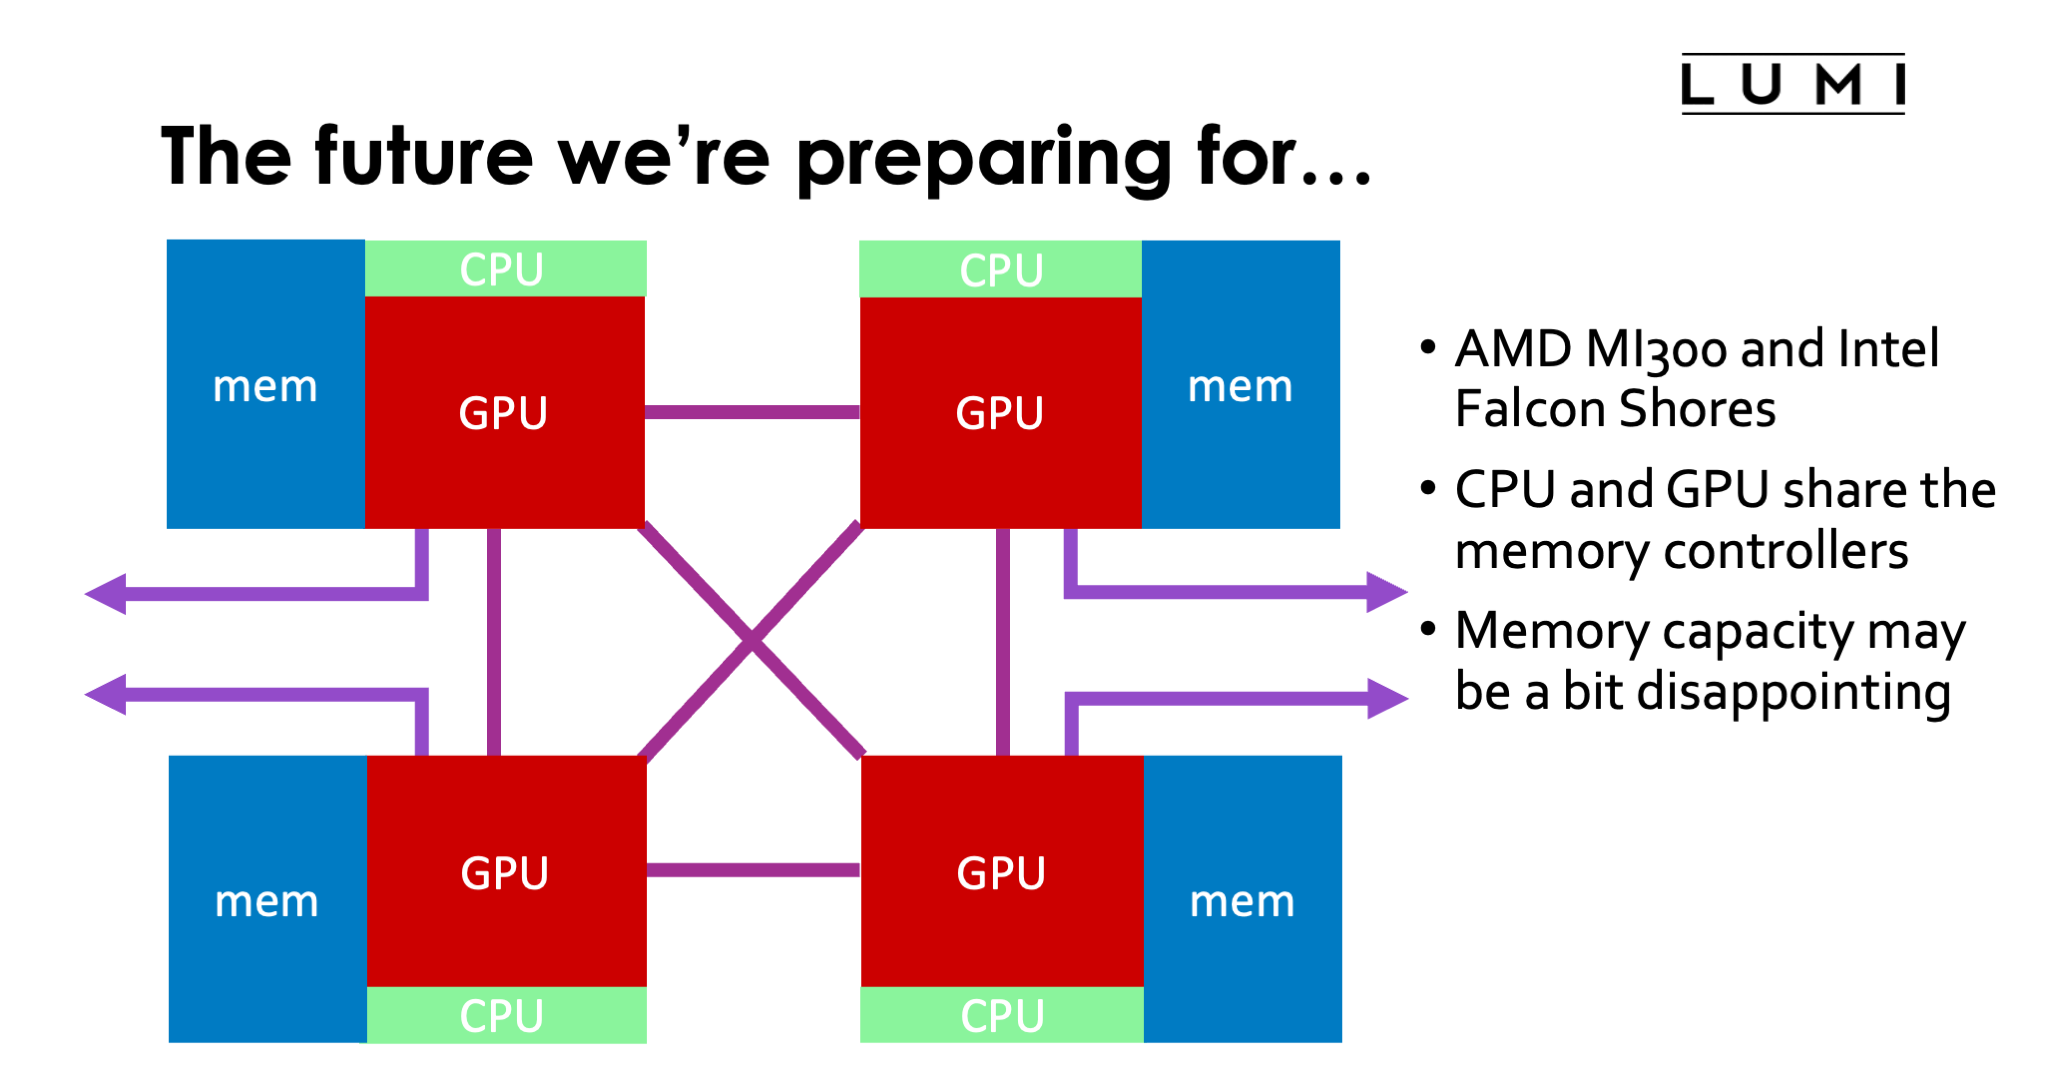
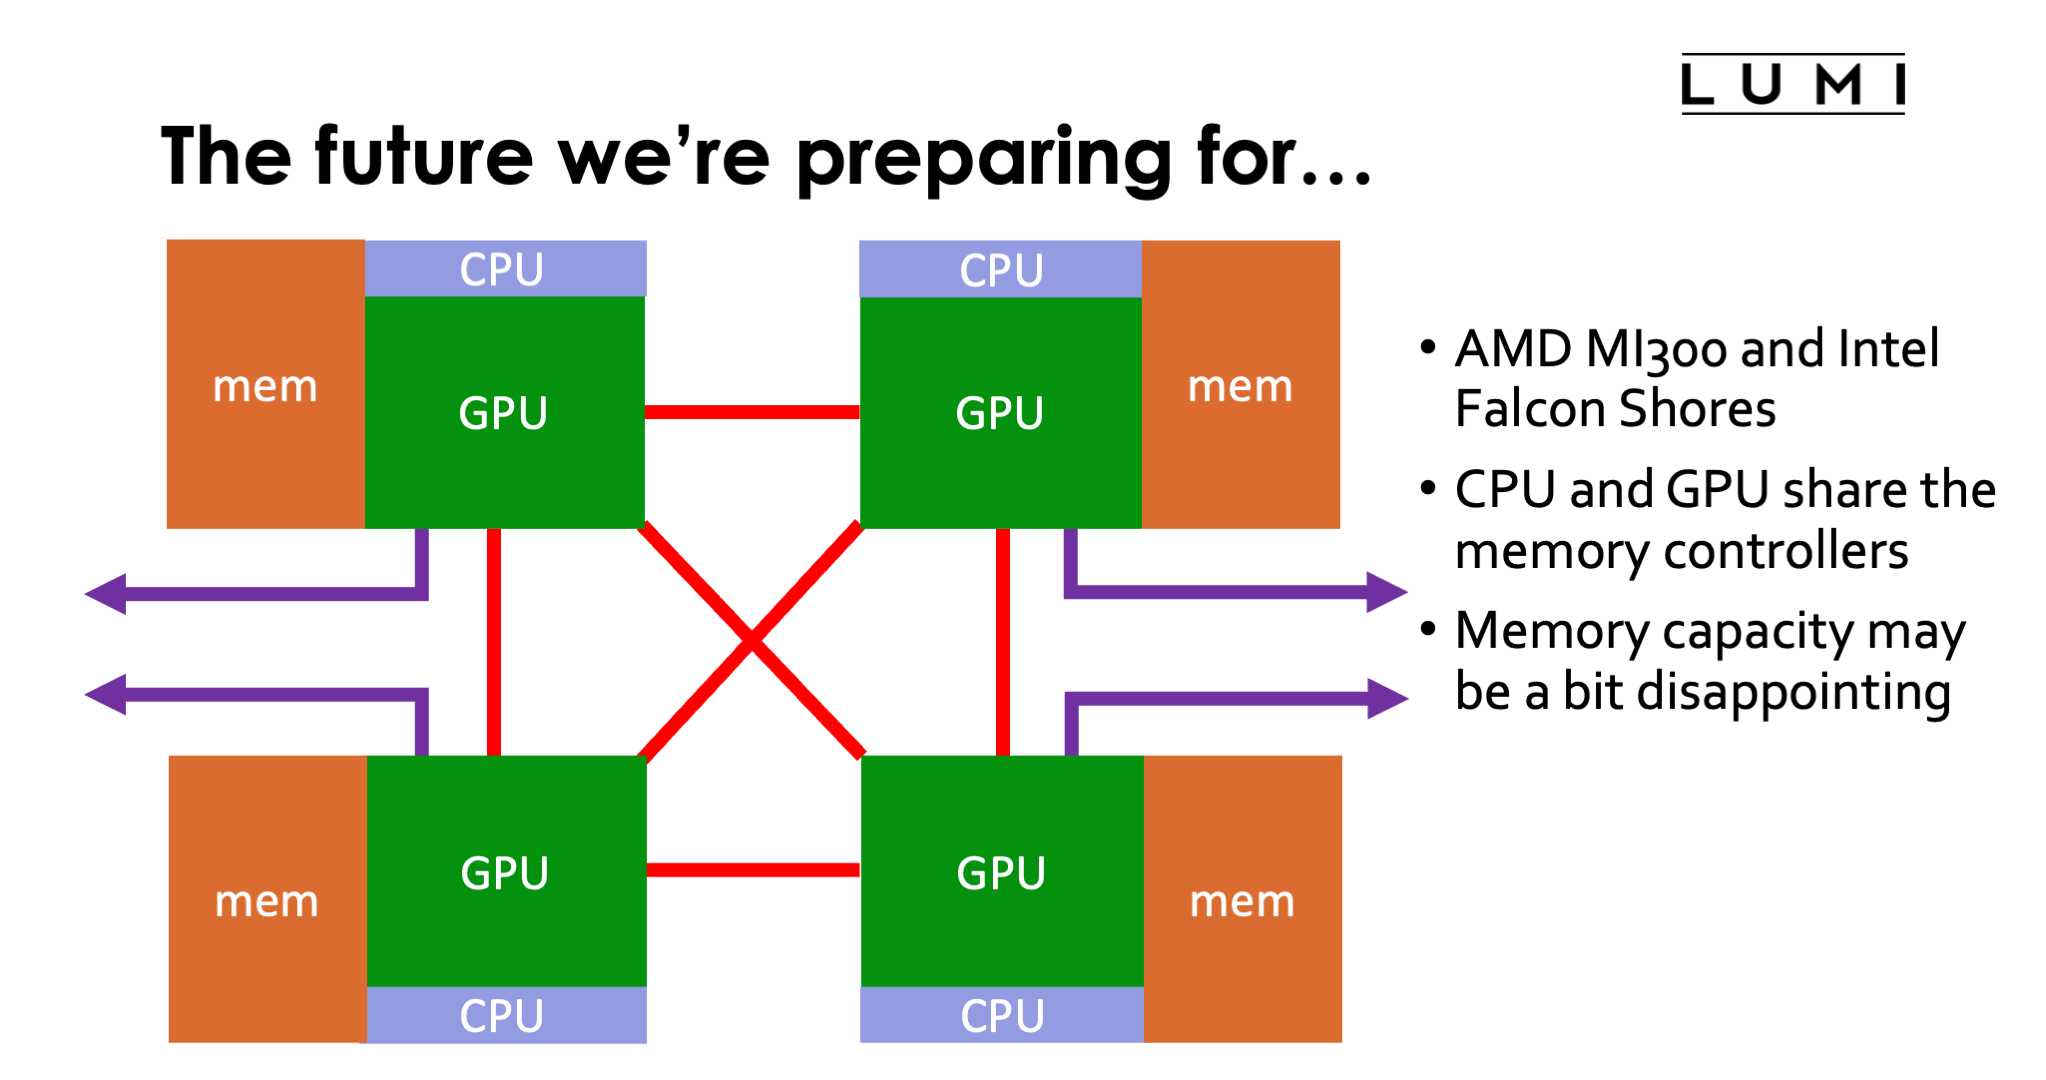
Colour improvements, and remark about difference between compute and rendering GPUs added to the slides.

Changed region(s): [[0.0308, 0.2139, 0.7082, 0.9778]]

diff --git a/docs/1day-20230321/01_Architecture.md b/docs/1day-20230321/01_Architecture.md
@@ -7,7 +7,7 @@ jobs that can scale.
 ## LUMI is ...
 
 <figure markdown style="border: 1px solid #000">
-  ![Slide 2](img/LUMI-1day-20230321-architecture/Dia2.png){ loading=lazy }
+  ![Slide LUMI is...](img/LUMI-1day-20230321-architecture/Dia2.png){ loading=lazy }
 </figure>
 
 LUMI is in the first place a EuroHPC pre-exascale machine, build to prepare for 
@@ -94,7 +94,7 @@ people to set it up and manage it.
 ## Building LUMI: The CPU AMD 7xx3 (Milan/Zen3) CPU
 
 <figure markdown style="border: 1px solid #000">
-  ![Slide 3](img/LUMI-1day-20230321-architecture/Dia3.png){ loading=lazy }
+  ![Slide The AMD EPYC 7xx3 (Milan/Zen3) CPU](img/LUMI-1day-20230321-architecture/Dia3.png){ loading=lazy }
 </figure>
 
 The LUMI-C and LUMI-G compute nodes use third generation AMD EPYC CPUs.
@@ -117,7 +117,7 @@ double precision) rather than the 32 some Intel processors are capable of.
 
 
 <figure markdown style="border: 1px solid #000">
-  ![Slide 4](img/LUMI-1day-20230321-architecture/Dia4.png){ loading=lazy }
+  ![Slide The AMD EPYC 7xx3 (Milan/Zen3) CPU (2)](img/LUMI-1day-20230321-architecture/Dia4.png){ loading=lazy }
 </figure>
 
 The full processor package for the AMD EPYC processors used in LUMI have
@@ -149,7 +149,7 @@ cores spread over all CCDs are used.
 ## Building LUMI: a LUMI-C node
 
 <figure markdown style="border: 1px solid #000">
-  ![Slide 5](img/LUMI-1day-20230321-architecture/Dia5.png){ loading=lazy }
+  ![Slide LUMI-C node](img/LUMI-1day-20230321-architecture/Dia5.png){ loading=lazy }
 </figure>
 
 A compute node is then built out of two such processor packages, connected 
@@ -164,7 +164,7 @@ high performance Slingshot interconnect though.
 ### A strong hierarchy in the node
 
 <figure markdown style="border: 1px solid #000">
-  ![Slide 6](img/LUMI-1day-20230321-architecture/Dia6.png){ loading=lazy }
+  ![Slide Strong hierarchy](img/LUMI-1day-20230321-architecture/Dia6.png){ loading=lazy }
 </figure>
 
 As can be seen from the node architecture in the previous slide, the CPU compute
@@ -204,13 +204,10 @@ CCDs in those 2 NUMA domains unless communication through the L3 threads would b
 application.
 
 
-
-
-
 ### Hierarchy: delays in numbers
 
 <figure markdown style="border: 1px solid #000">
-  ![Slide 7](img/LUMI-1day-20230321-architecture/Dia7.png){ loading=lazy }
+  ![Slide Delays in numbers](img/LUMI-1day-20230321-architecture/Dia7.png){ loading=lazy }
 </figure>
 
 This slide shows the ACPI System Locality distance Information Table (SLIT)
@@ -231,7 +228,7 @@ really need (and you will be billed for them).
 ## Building LUMI: Concept LUMI-G node
 
 <figure markdown style="border: 1px solid #000">
-  ![Slide 8](img/LUMI-1day-20230321-architecture/Dia8.png){ loading=lazy }
+  ![Slide Concept LUMI-G node](img/LUMI-1day-20230321-architecture/Dia8.png){ loading=lazy }
 </figure>
 
 This slide shows a conceptual view of a LUMI-G compute node. This node is
@@ -244,9 +241,9 @@ Each GPU node consists of one 64-core AMD EPYC CPU and 4 AMD MI250x GPUs.
 So far nothing special. However, two elements make this compute node very
 special. The GPUs are not connected to the CPU though a PCIe bus. Instead
 they are connected through the same links that AMD uses to link the GPUs together,
-or two link the two sockets in the LUMI-C compute nodes, known as xGMI or
+or to link the two sockets in the LUMI-C compute nodes, known as xGMI or
 Infinity Fabric. This enables CPU and GPU to access each others memory 
-rather seamlessly or to implement coherent caches across the whole system.
+rather seamlessly and to implement coherent caches across the whole system.
 The second remarkable element is that the Slingshot interface cards
 connect directly to the GPUs (though a PCIe interface on the GPU) rather
 than two the CPU. The CPUs have a shorter path to the communication 
@@ -264,13 +261,36 @@ that can (at least if those two could execute concurrently with each other), and
 match node types as needed, rather than building clusters with massive and expensive nodes
 that few applications can fully exploit.
 
+It is also important to realise that even though we call the partition "LUMI-G", the MI250x
+is not a GPU in the true sense of the word. It is not a rendering GPU, which for AMD is 
+currently the RDNA architecture with version 3 just out, but a compute accelerator with
+an architecture that evolved from a GPU architecture, in this case the VEGA architecture
+from AMD. The architecture of the MI200 series is also known as CDNA2, with the MI100 series
+being just CDNA, the first version. Much of the hardware that does not serve compute purposes
+has been removed from the design to have more transistors available for compute. MI200 even
+removed the multimedia engine that survived the cut in MI100. So the MI200 is no accelerator
+for rendering or for video processing. Rendering is possible, but it will be software-based 
+rendering with some GPU acceleration for certain parts of the pipeline, but not full hardware
+rendering.
+
+This is not an evolution at AMD only. The same is happening with NVIDA GPUs and there is a reason
+why the latest generation is called "Hopper" for compute and "Ada Lovelace" for rendering GPUs. 
+Several of the functional blocks in the Ada Lovelace architecture are missing in the Hopper 
+architecture to make room for more compute power and double precision compute units. E.g.,
+Hopper does not contain the ray tracing units of Ada Lovelace.
+
+Graphics on one hand and HPC and AI on the other hand are becoming separate workloads for which
+manufacturers make different, specialised cards, and if you have applications that need both,
+you'll have to rework them to work in two phases, or to emply to types of nodes and communicate
+between them over the interconnect, and look for supercomputers that support both workloads.
+
 But so far for the sales presentation, let's get back to reality...
 
 
 ## Building LUMI: What a LUMI-G node really looks like
 
 <figure markdown style="border: 1px solid #000">
-  ![Slide 9](img/LUMI-1day-20230321-architecture/Dia9.png){ loading=lazy }
+  ![Slide Real LUMI-G node](img/LUMI-1day-20230321-architecture/Dia9.png){ loading=lazy }
 </figure>
 
 Or the full picture with the bandwidths added to it:
@@ -355,7 +375,7 @@ and as we shall see later in the course, exploiting this is a bit tricky at the 
 ### What the future looks like...
 
 <figure markdown style="border: 1px solid #000">
-  ![Slide 10](img/LUMI-1day-20230321-architecture/Dia10.png){ loading=lazy }
+  ![Slide The future we're preparing for...](img/LUMI-1day-20230321-architecture/Dia10.png){ loading=lazy }
 </figure>
 
 Some users may be annoyed by the "small" amount of memory on each node. Others
@@ -406,7 +426,7 @@ that it can appeal to a larger market.
 ## Building LUMI: The Slingshot interconnect
 
 <figure markdown style="border: 1px solid #000">
-  ![Slide 11](img/LUMI-1day-20230321-architecture/Dia11.png){ loading=lazy }
+  ![Slide Slingshot interconnect](img/LUMI-1day-20230321-architecture/Dia11.png){ loading=lazy }
 </figure>
 
 All nodes of LUMI, including the login, management and storage nodes, are linked
@@ -457,7 +477,7 @@ a third hop in the destination group to the switch the destination node is attac
 ## Assembling LUMI
 
 <figure markdown style="border: 1px solid #000">
-  ![Slide 12](img/LUMI-1day-20230321-architecture/Dia12.png){ loading=lazy }
+  ![Slide HPE Cray EX System](img/LUMI-1day-20230321-architecture/Dia12.png){ loading=lazy }
 </figure>
 
 Let's now have a look at how everything connects together to the supercomputer LUMI.
